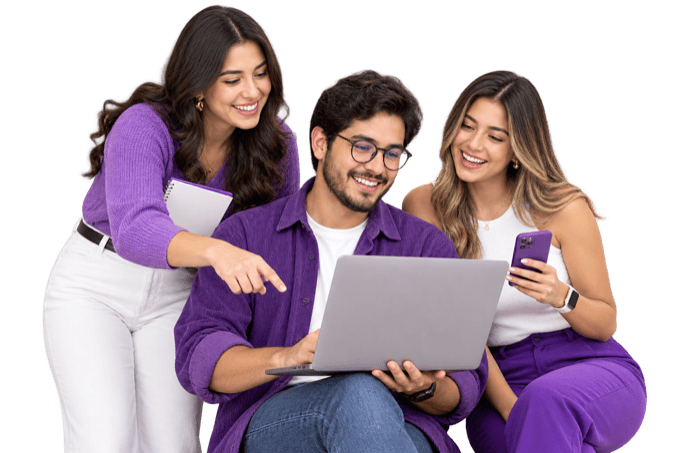
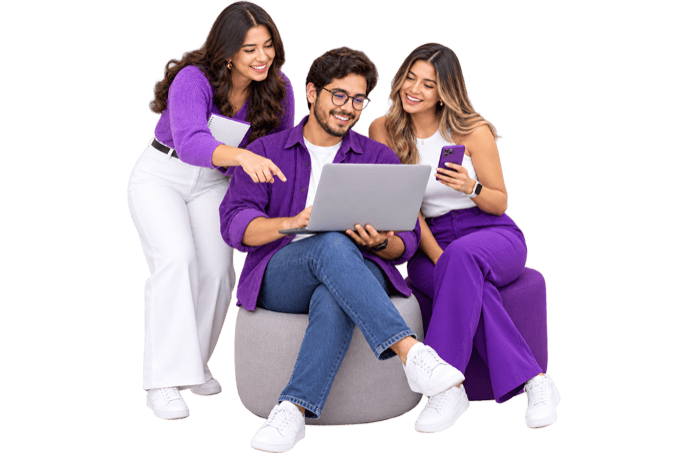
feat: Update sales platform section image

diff --git a/src/app/home/components/products/products.ts b/src/app/home/components/products/products.ts
@@ -81,7 +81,7 @@ export class Products {
       image: {
         png: '/images/team-group.png',
         webp: '/images/team-group.webp',
-        alt: 'Equipo comercial revisando su pipeline de ventas en la plataforma de Siwina',
+        alt: 'Equipo comercial revisando en laptop y celular el pipeline de ventas de Siwina',
         width: 680,
         height: 453,
       },

diff --git a/README.md b/README.md
@@ -132,7 +132,7 @@ alfa, ya redimensionados y comprimidos desde los originales del diseño:
 | `hero-composed-720.webp`   | 720 × 540   | 72 K  | Variante móvil del hero     |
 | `pos-barista.png`          | 680 × 580   | 67 K  | Producto 01 · POS DIAN      |
 | `support-headphones.png`   | 680 × 453   | 40 K  | Producto 02 · Agentes de IA |
-| `team-group.png`           | 680 × 453   | 44 K  | Producto 03 · Ventas        |
+| `team-group.png`           | 680 × 453   | 40 K  | Producto 03 · Ventas        |
 
 El marcado usa `<picture>` con `image/webp` y hace fallback al PNG. Si reemplazás un PNG,
 regenerá su WebP:
